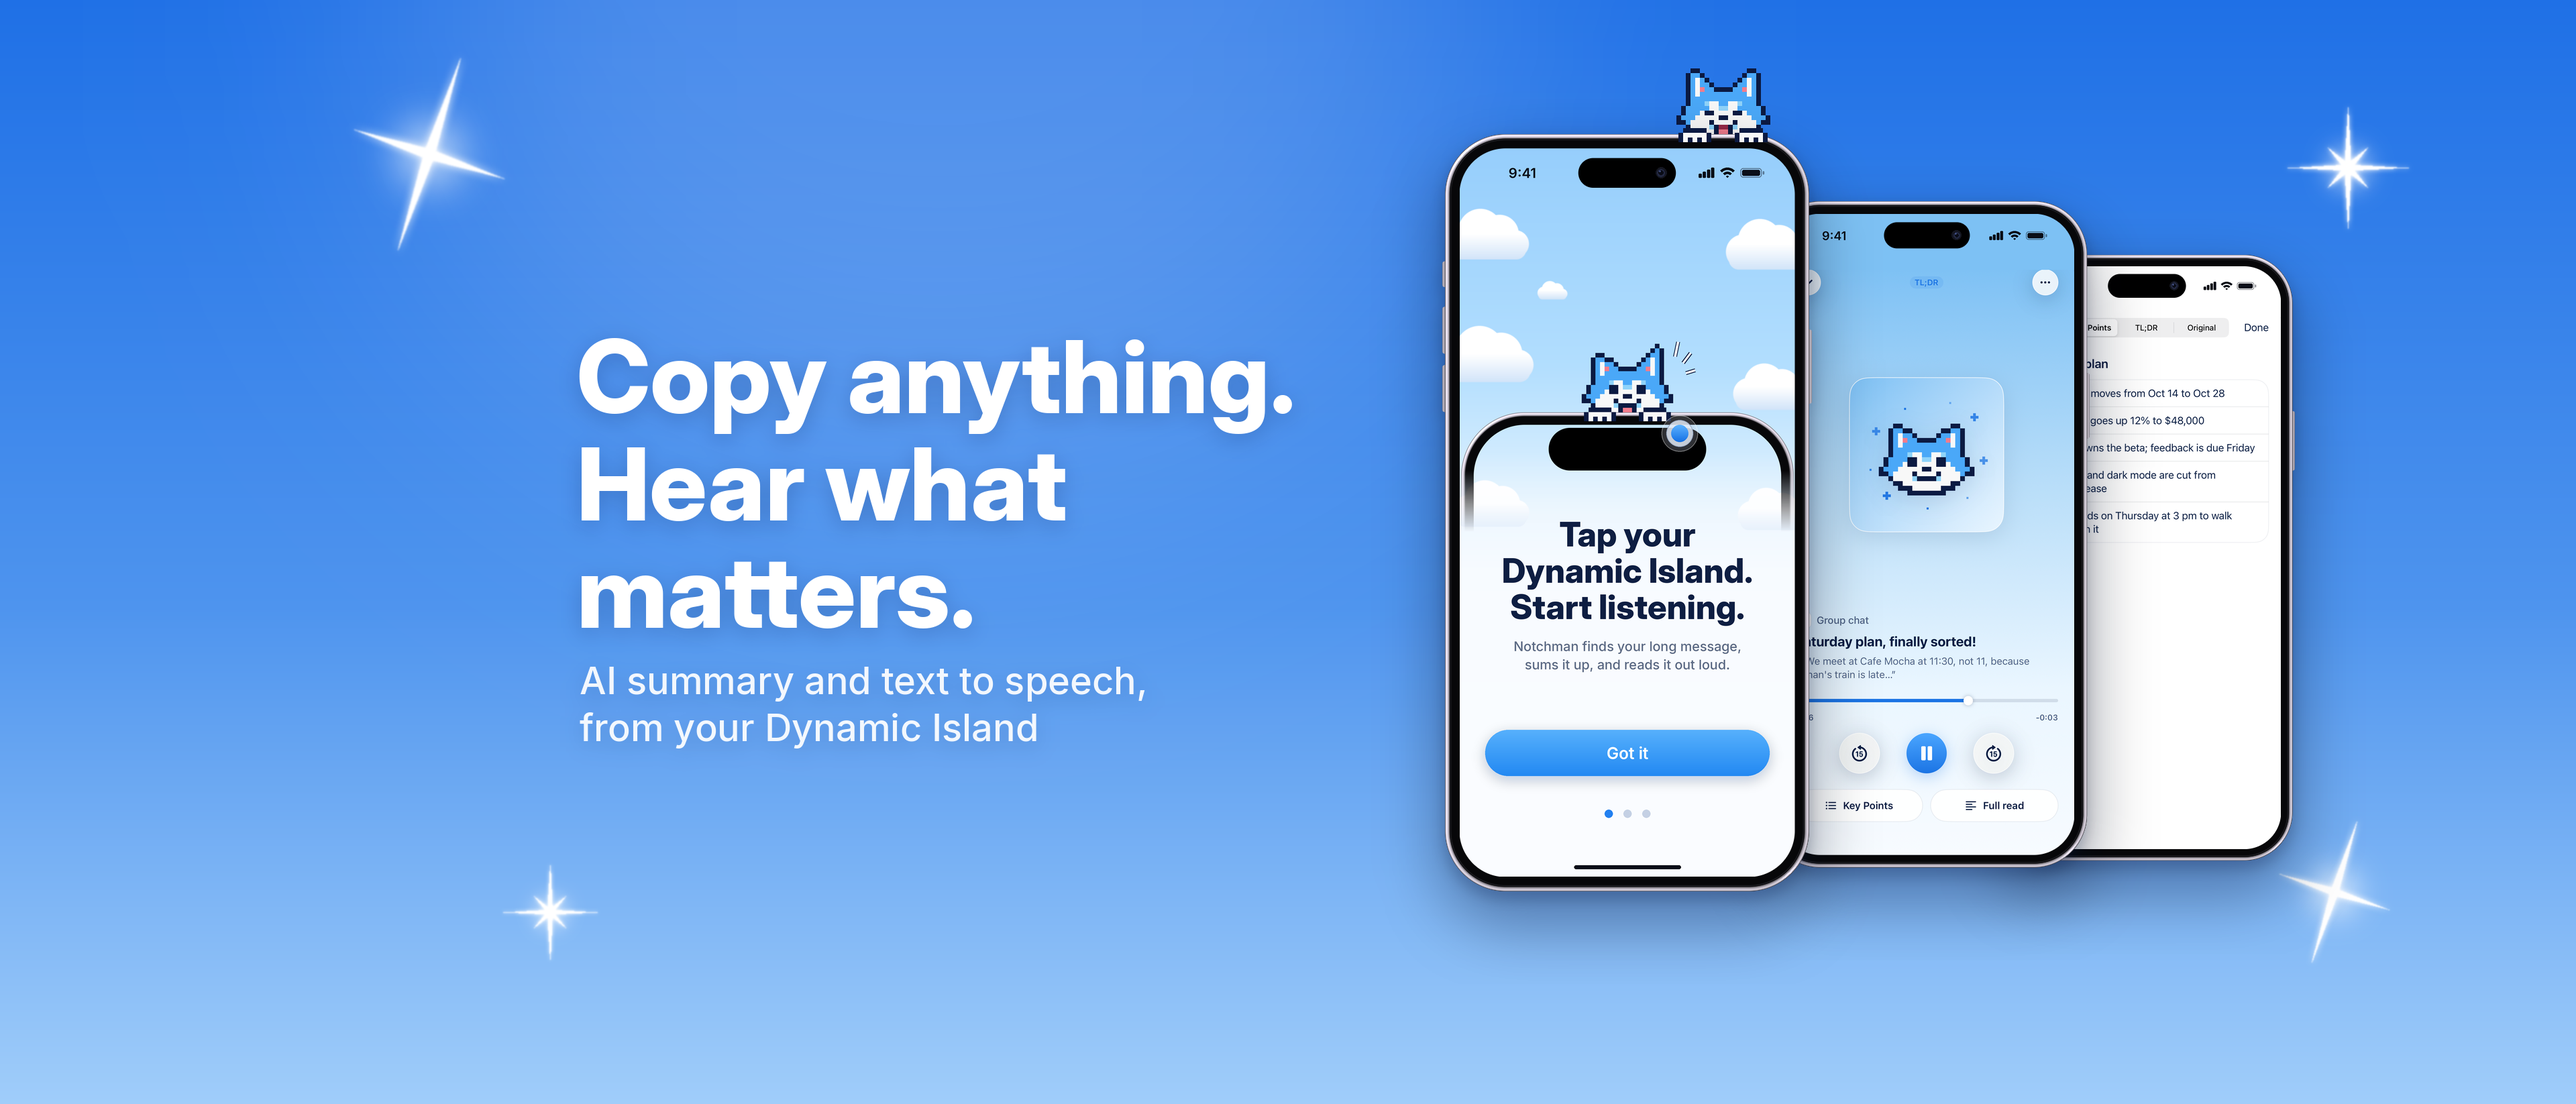
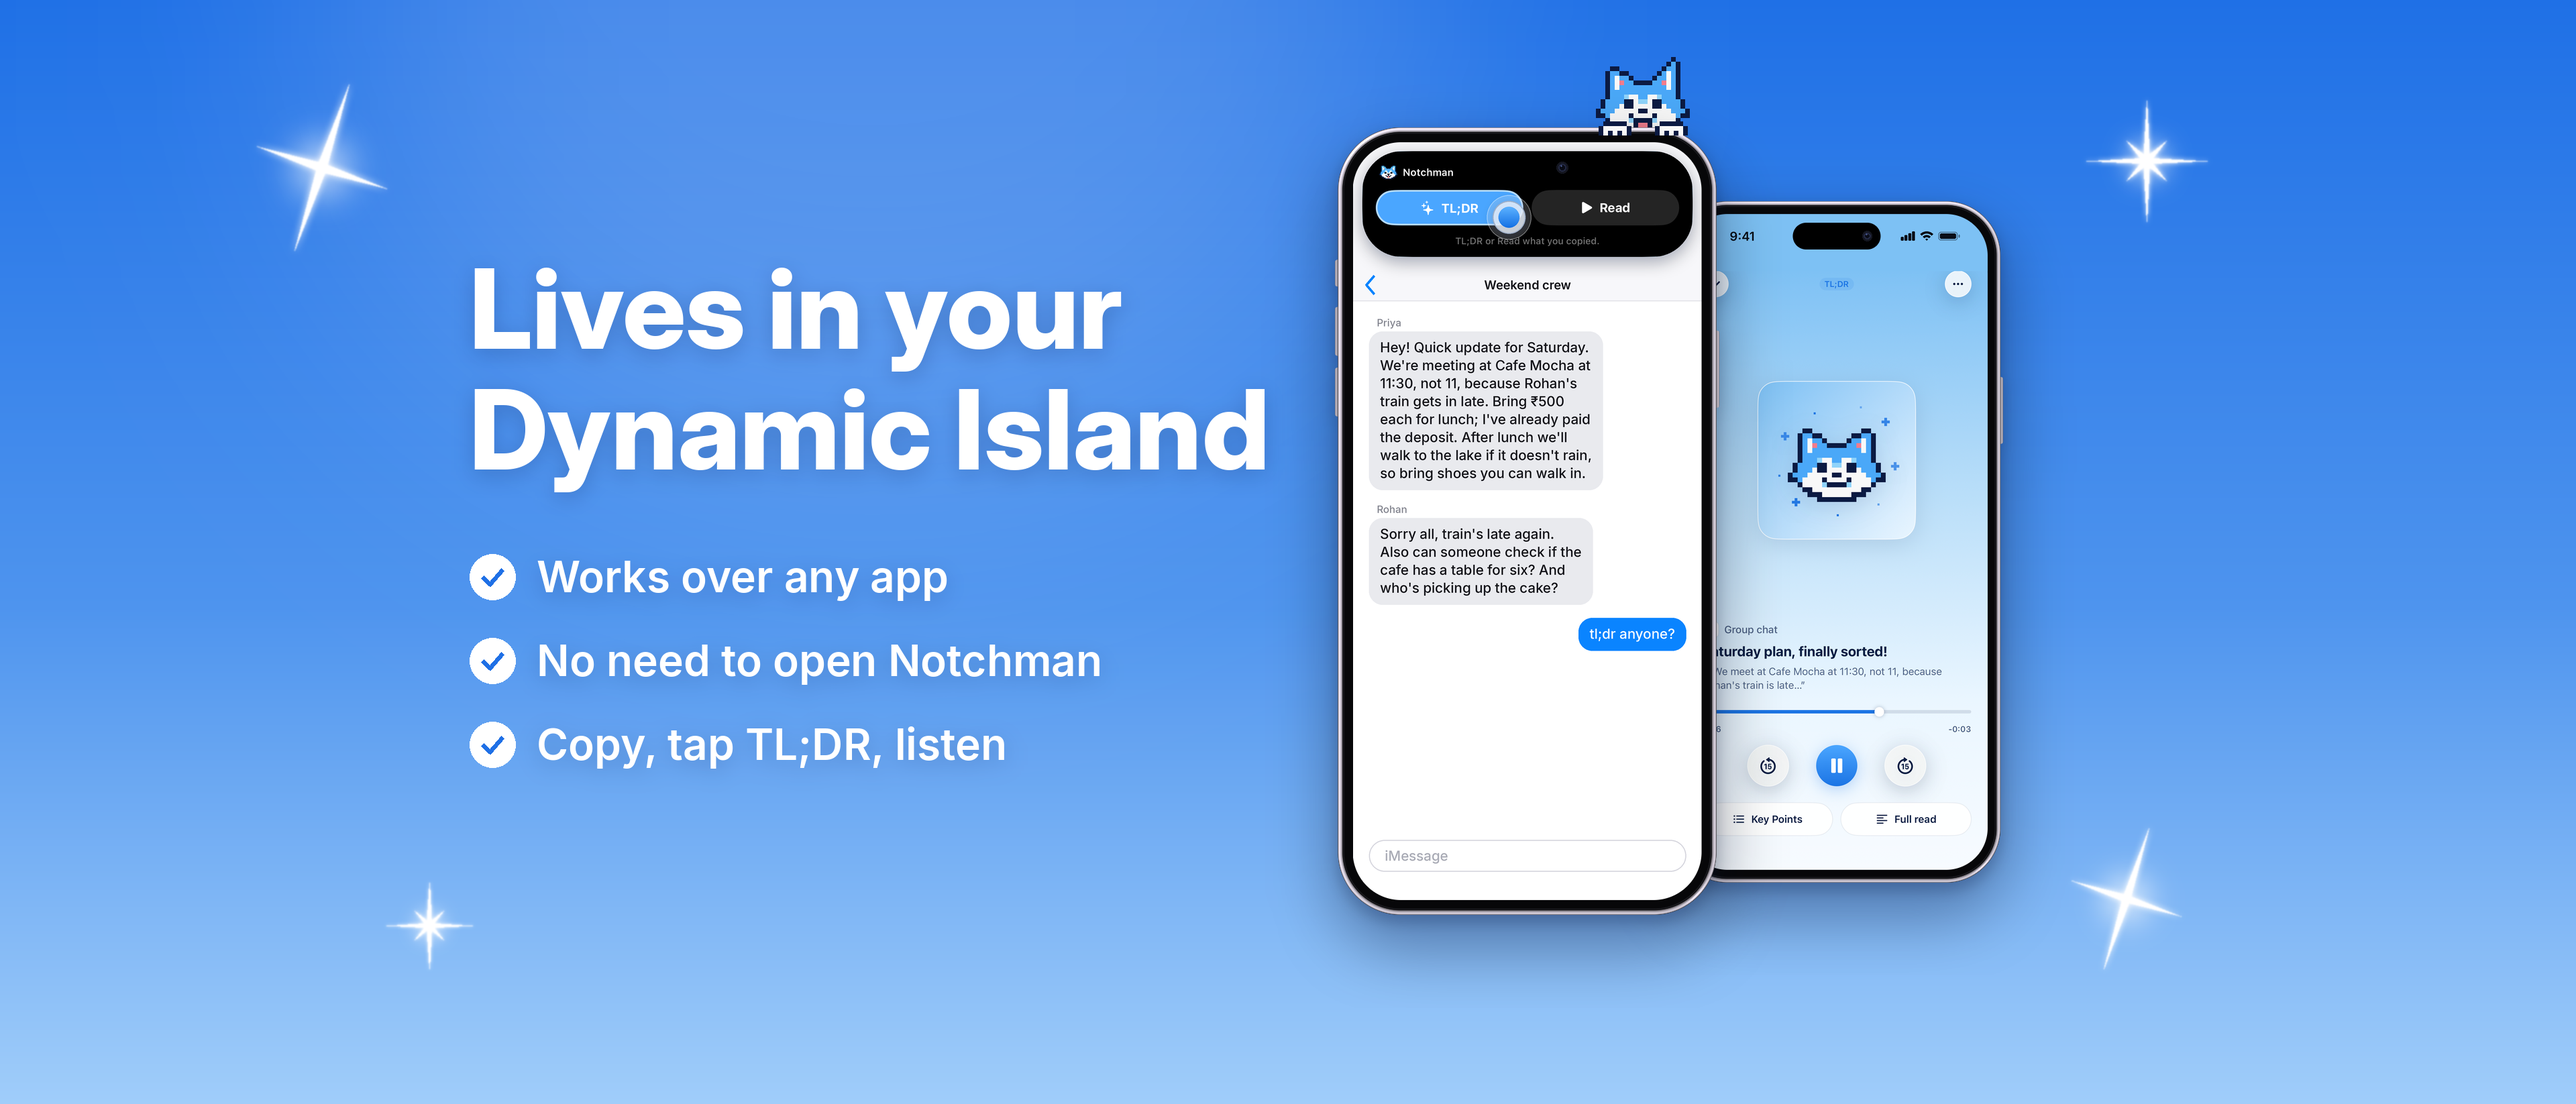
App Store header: Notchman in the Dynamic Island over another app

diff --git a/scripts/store_header.py b/scripts/store_header.py
@@ -1,57 +1,122 @@
 #!/usr/bin/env python3
 """The App Store header (Product Page Information → Header): 3840×1646.
 
-Same look as the screenshots (scripts/store_screenshots.py): blue sky,
-sparkles, three iPhones (front to back: the hero, the player, key points) with the Shiba peeking. Apple crops the header's
-sides on smaller screens, so everything sits in the middle.
+Same look as the screenshots (scripts/store_screenshots.py). It shows what
+Notchman is about: it stays in the Dynamic Island and works over any other
+app, without opening Notchman. The front iPhone is a group chat with
+Notchman's Dynamic Island open over it (the real Live Activity, from the
+onboarding capture); behind it, the TL;DR playing. Apple crops the sides on
+smaller screens, so everything sits in the middle.
 
   python3 scripts/store_header.py      → docs/store/header.png
 """
 import os
 
+import numpy as np
 from PIL import Image, ImageDraw, ImageFilter
 
 import store_screenshots as s
 
 W, H = 3840, 1646
+BUBBLE = (233, 234, 238)
+BLUE = (10, 132, 255)
+
+CHAT = [
+    ("Priya", "Hey! Quick update for Saturday. We're meeting at Cafe Mocha at 11:30, not 11, because "
+              "Rohan's train gets in late. Bring ₹500 each for lunch; I've already paid the deposit. "
+              "After lunch we'll walk to the lake if it doesn't rain, so bring shoes you can walk in."),
+    ("Rohan", "Sorry all, train's late again. Also can someone check if the cafe has a table for six? "
+              "And who's picking up the cake?"),
+    (None, "tl;dr anyone?"),
+]
+
+
+def chat_screen():
+    """A group chat in another app, with Notchman's Dynamic Island opened over it."""
+    w, h = s.SIZE
+    screen = Image.new("RGBA", s.SIZE, (255, 255, 255, 255))
+    draw = ImageDraw.Draw(screen)
+    # The chat's header.
+    draw.rectangle([0, 0, w, 600], fill=(247, 247, 250))
+    draw.line([(0, 600), (w, 600)], fill=(222, 222, 228), width=3)
+    draw.text((w / 2, 540), "Weekend crew", font=s.font("Inter-SemiBold.ttf", 46), fill=(20, 20, 26), anchor="mm")
+    draw.line([(80, 505), (50, 540), (80, 575)], fill=BLUE, width=9, joint="curve")
+
+    text_font, name_font = s.font("Inter-Medium.ttf", 52), s.font("Inter-Medium.ttf", 38)
+    y = 660
+    for name, text in CHAT:
+        mine = name is None
+        lines = s.wrap(text, "Inter-Medium.ttf", 52, 820)
+        width = max(text_font.getlength(line) for line in lines) + 84
+        height = len(lines) * 68 + 56
+        if not mine:
+            draw.text((90, y), name, font=name_font, fill=(130, 132, 142))
+            y += 56
+        x0 = w - 60 - width if mine else 60
+        draw.rounded_rectangle([x0, y, x0 + width, y + height], radius=52, fill=BLUE if mine else BUBBLE)
+        for i, line in enumerate(lines):
+            draw.text((x0 + 42, y + 28 + i * 68), line, font=text_font, fill=s.WHITE if mine else (20, 20, 26))
+        y += height + 50
+    # The typing bar.
+    draw.rounded_rectangle([60, 2640, w - 60, 2760], radius=60, outline=(214, 214, 222), width=4)
+    draw.text((120, 2700), "iMessage", font=text_font, fill=(170, 172, 182), anchor="lm")
+    s.status_bar(screen)
+
+    # Notchman's Dynamic Island, opened (the real Live Activity, cut from the onboarding capture).
+    island = Image.open(os.path.join(s.SHOTS, "onboardingTry.png")).convert("RGB").crop((72, 1063, 1248, 1439))
+    island = island.resize((1250, round(island.height * 1250 / island.width)), Image.LANCZOS)
+    mask = Image.new("L", island.size, 0)
+    ImageDraw.Draw(mask).rounded_rectangle([0, 0, island.width - 1, island.height - 1], radius=150, fill=255)
+    island = island.convert("RGBA")
+    island.putalpha(mask)
+    lifted, pad = s.shadowed(island, 30, (0, 20), 90)
+    screen.alpha_composite(lifted, ((w - island.width) // 2 - pad, 34 - pad))
+    # A tap on TL;DR.
+    s.ripple(screen, (w / 2 - 70, 34 + 250), 40)
+    return screen
+
+
+def check(canvas, x, y, r):
+    draw = ImageDraw.Draw(canvas)
+    draw.ellipse([x - r, y - r, x + r, y + r], fill=s.WHITE)
+    draw.line([(x - r * 0.42, y + r * 0.02), (x - r * 0.1, y + r * 0.34), (x + r * 0.45, y - r * 0.3)],
+              fill=(31, 112, 230), width=round(r * 0.22), joint="curve")
 
 
 def main():
     canvas = s.gradient((W, H), [(0, (31, 112, 230)), (0.55, (78, 148, 238)), (1, (160, 205, 250))])
     light = s.layer((W, H), s.WHITE)
-    ImageDraw.Draw(light).ellipse([600, -500, 2200, 700], fill=(255, 255, 255, 50))
+    ImageDraw.Draw(light).ellipse([500, -500, 2100, 700], fill=(255, 255, 255, 50))
     canvas.alpha_composite(light.filter(ImageFilter.GaussianBlur(220)))
-    for x, y, size, rays in [(640, 230, 150, 4), (3500, 250, 90, 8), (820, 1360, 70, 8), (3480, 1330, 110, 4)]:
+    for x, y, size, rays in [(480, 250, 130, 4), (3200, 240, 90, 8), (640, 1380, 64, 8), (3170, 1340, 110, 4)]:
         s.sparkle(canvas, (x, y), size, angle=-72 if rays == 4 else 0, rays=rays)
 
-    # The words, left of the middle.
+    # The words.
+    left = 700
     words = s.layer((W, H), s.WHITE)
     draw = ImageDraw.Draw(words)
-    big = s.font("InterDisplay-ExtraBold.ttf", 150)
-    for i, line in enumerate(["Copy anything.", "Hear what", "matters."]):
-        draw.text((860, 470 + i * 160), line, font=big, fill=s.WHITE + (255,))
-    draw.text((864, 980), "AI summary and text to speech,", font=s.font("Inter-Medium.ttf", 56), fill=(255, 255, 255, 236))
-    draw.text((864, 1050), "from your Dynamic Island", font=s.font("Inter-Medium.ttf", 56), fill=(255, 255, 255, 236))
+    big = s.font("InterDisplay-ExtraBold.ttf", 165)
+    for i, line in enumerate(["Lives in your", "Dynamic Island"]):
+        draw.text((left, 360 + i * 180), line, font=big, fill=s.WHITE + (255,))
+    rows = ["Works over any app", "No need to open Notchman", "Copy, tap TL;DR, listen"]
+    row_font = s.font("Inter-SemiBold.ttf", 64)
+    for i, text in enumerate(rows):
+        draw.text((left + 100, 860 + i * 125), text, font=row_font, fill=s.WHITE + (255,), anchor="lm")
     lift = Image.new("RGBA", (W, H), (8, 30, 84, 0))
     lift.putalpha(words.getchannel("A").point(lambda a: a * 60 // 255))
     canvas.alpha_composite(lift.filter(ImageFilter.GaussianBlur(16)), (0, 8))
     canvas.alpha_composite(words)
+    for i in range(len(rows)):
+        check(canvas, left + 34, 860 + i * 125, 34)
 
-    # Three iPhones right of the middle; the front one shows the hero.
-    phones = [
-        (s.app_screen("work/keyPoints"), 400, 2980, 380),
-        (s.app_screen("shiba/player"), 440, 2630, 300),
-        (s.hero_screen("Tap your\nDynamic Island.\nStart listening.",
-                       "Notchman finds your long message, sums it up, and reads it out loud.", "listen1"), 500, 2150, 200),
-    ]
-    for screen, width, x, y in phones[:2]:
-        phone, pad = s.device(screen, width)
-        canvas.alpha_composite(phone, (x - pad, y - pad))
-    screen, width, x, y = phones[2]
-    phone, pad = s.device(screen, width)
-    body_w = phone.width - 2 * pad
+    # The TL;DR playing behind; the chat with Notchman's Dynamic Island in front.
+    back, pad = s.device(s.app_screen("shiba/player"), 450)
+    canvas.alpha_composite(back, (2490 - pad, 300 - pad))
+    width, x, y = 520, 1990, 190
+    front, pad = s.device(chat_screen(), width)
+    body_w = front.width - 2 * pad
     edge = (0.0135 + 0.029) * width
-    s.peek(canvas, y, x + body_w * 0.76, 7, "happy", lambda: canvas.alpha_composite(phone, (x - pad, y - pad)), edge * 0.55)
+    s.peek(canvas, y, x + body_w * 0.8, 7, "listen1", lambda: canvas.alpha_composite(front, (x - pad, y - pad)), edge * 0.55)
 
     out = os.path.join(s.OUT, "header.png")
     canvas.convert("RGB").save(out, optimize=True)
